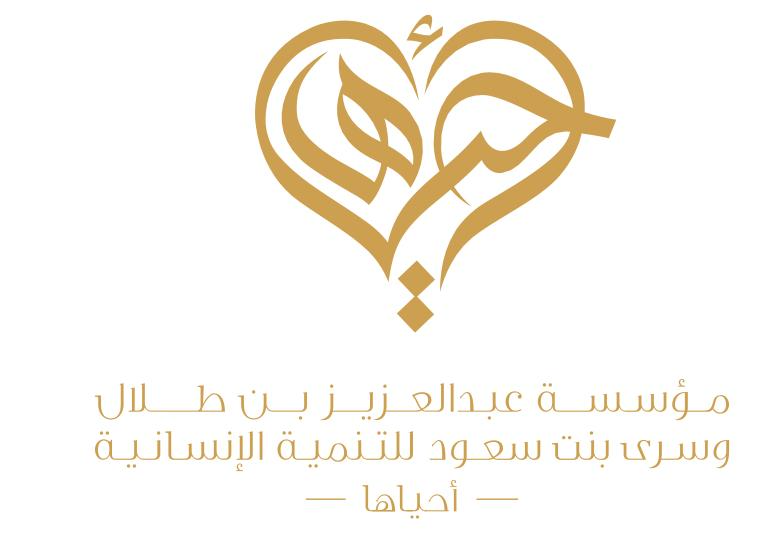
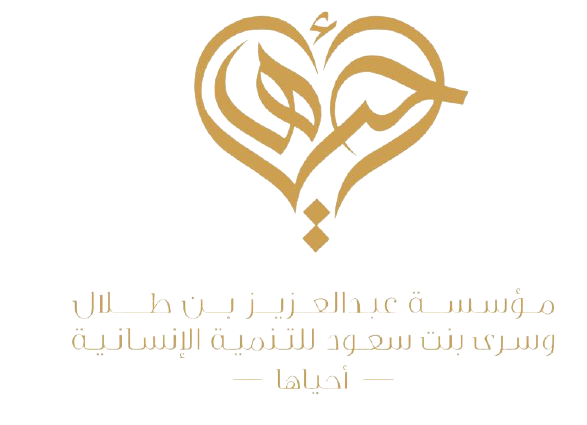
home

diff --git a/main/templates/main/home.html b/main/templates/main/home.html
@@ -4,39 +4,34 @@
 
 
 {% block content %}
-    <div class="ftco-blocks-cover-1">
+    <div class="ftco-blocks-cover-1" style="margin-top: -113px;">
         <div id="carouselExampleIndicators" class="carousel slide my-carousel my-carousel" data-ride="carousel">
             <ol class="carousel-indicators">
                 <li data-target="#carouselExampleIndicators" data-slide-to="0" class="circle black-dot active"></li>
                 <li data-target="#carouselExampleIndicators" data-slide-to="1" class="circle blue-dot"></li>
                 <li data-target="#carouselExampleIndicators" data-slide-to="2" class="circle green-dot"></li>
             </ol>
-            <div class="carousel-inner" role="listbox">
+            <div class="carousel-inner" role="listbox" >
                 <div class="carousel-item active" style="background-image: url('../../../static/images/login.png')">
-                    <div class="carousel-caption d-none d-md-block text-lay-image" style="margin-top: 10px">
-                        <h2 class="body-font text-green" style="font-size: 50px; font-weight: bold;">منصة الخير </h2>
-                        <h5 class="body-font text-black" style="font-size: 23px; font-weight: bold;">صممت لتيسير الخير لفاعل الخير ليكون ضمن </h5>
-                        <p class="body-font text-black" style="font-size: 23px;  font-weight: bold;"> دائره تكافليه موثوقه
-                        <p class="body-font text-green" style="font-size: 23px; font-weight: bold;">,مستمره و ممتده</p>  </p>
+                    <div class="carousel-caption d-none d-md-block text-lay-image"  style="height: 380px; width: 100%;">
+                        <h2 class="body-font text-green" style="color: #2D6D93 !important; font-size: 50px; font-weight: bold;">منصة الخير </h2>
+                        <h5 class="body-font text-black" style="font-size: 23px; font-weight: bold;">صممت لتيسير الخير لفاعل الخير ليكون ضمن  دائره تكافليه موثوقه </h5>
+                        <p class="body-font text-green" style="font-size: 23px; font-weight: bold;">مستمره و ممتده</p>
                     </div>
                 </div>
             </div>
         </div>
     </div>
-        <div class="site-section ">
+        <div class="site-section " >
         <div class="container bg-home">
             <div class="row">
-                <div class="col-12 ">
-                 <div class="card">
-                     <div class="card-body">
+                <div class="col-12 bg-home">
                               <center><h3 class="body-font text-green" style="font-size: 32px; font-weight: bold;"> رسالة خير</h3></center>
                          <hr/>
                   <center>  <p class="body-font text-black " style="font-size: 20px;">السعى لتمكين و تفعيل التكافل الأجتماعى باستخدام التقنيات الحديثه
                         للربط بين الكيانات المقتدره من المؤسسات و الأفراد و المستفيدات من الجمعيات الخيريه الرسميه فى
                       المملكه العربيه السعوديه</p> </center>
 
-                     </div>
-                 </div>
                 </div>
             </div>
                                   <div class="row">
@@ -86,53 +81,41 @@
             <div class="row justify-content-center text-center mb-5 section-2-title">
                 <div class="col-md-6">
                     <span class="text-cursive h5 text-red body-font" style="font-size: 25px; font-weight: bold;">مساحه للإعلانات</span>
-                    <h3 class="text-white text-center body-font text-black">الأعلانات</h3>
+                    <h3 class="text-white text-center body-font text-black" style="font-size: 20px; font-weight: bold;" >الأعلانات</h3>
                 </div>
             </div>
 
-    <div class="row">
+    <div class="row" style="height: 380px; width: 100%; margin-top: -140px;">
         <div id="recipeCarousel" class="carousel slide w-100" data-ride="carousel">
             <div class="carousel-inner w-100" role="listbox">
                 <div class="carousel-item active">
                     <div class="col-md-4">
-                        <div class="card card-body">
                             <img class="img-fluid" src="{% static 'images/hands.png' %}">
-                        </div>
                     </div>
                 </div>
                 <div class="carousel-item">
                     <div class="col-md-4">
-                        <div class="card card-body">
                             <img class="img-fluid" src="{% static 'images/hands.png' %}">
-                        </div>
                     </div>
                 </div>
                 <div class="carousel-item">
                     <div class="col-md-4">
-                        <div class="card card-body">
                             <img class="img-fluid" src="{% static 'images/hands.png' %}">
-                        </div>
                     </div>
                 </div>
                 <div class="carousel-item">
                     <div class="col-md-4">
-                        <div class="card card-body">
                             <img class="img-fluid" src="{% static 'images/hands.png' %}">
-                        </div>
                     </div>
                 </div>
                 <div class="carousel-item">
                     <div class="col-md-4">
-                        <div class="card card-body">
                             <img class="img-fluid" src="{% static 'images/hands.png' %}">
-                        </div>
                     </div>
                 </div>
                 <div class="carousel-item">
                     <div class="col-md-4">
-                        <div class="card card-body">
                             <img class="img-fluid" src="{% static 'images/hands.png' %}">
-                        </div>
                     </div>
                 </div>
             </div>
@@ -187,8 +170,8 @@
       </div>
     </div>
 
-    <div class="site-section ">
-    <div class="container bg-home">
+    <div class="site-section " style="height: 10px; width: 100%; margin-top: -180px;">
+    <div class="container ">
          <div class="row mt-5 justify-content-center ">
 
 
@@ -232,43 +215,35 @@
 </center>
             <div class="row justify-content-center text-center mb-5 section-2-title">
                 <div class="col-md-6">
-                    <span class="text-cursive h5 text-red body-font" style="font-size: 25px; font-weight: bold;">شركاؤنا</span>
-                    <h3 class="text-white text-center body-font text-black">أهدافنا و طموحاتنا ان يصل الخير لمستحقيه</h3>
+                    <span class="text-cursive h5 text-red body-font" style="font-size: 25px; ;">شركاؤنا</span>
+                    <h3 class="text-white text-center body-font text-black" style="font-size: 20px">أهدافنا و طموحاتنا ان يصل الخير لمستحقيه</h3>
                 </div>
             </div>
 
 
             </div>
-    <div class="container text-center my-3" >
+    <div class="container text-center my-3" style="height: 380px; width: 100%;" >
     <div class="row mx-auto my-auto">
         <div id="e3lan" class="carousel slide w-100" data-ride="carousel">
             <div class="carousel-inner w-100" role="listbox">
                 <div class="carousel-item active">
                     <div class="col-md-4">
-                        <div class="card card-body">
-                            <img class="img-fluid" src="{% static 'images/share1.png' %}">
-                        </div>
+                            <img class="img-fluid" src="{% static 'images/share1.png' %}" width="300" height="250">
                     </div>
                 </div>
                 <div class="carousel-item">
                     <div class="col-md-4">
-                        <div class="card card-body">
-                            <img class="img-fluid" src="{% static 'images/share2.png' %}">
-                        </div>
+                            <img class="img-fluid" src="{% static 'images/share2.png' %}"  width="300" height="250" >
                     </div>
                 </div>
                 <div class="carousel-item">
                     <div class="col-md-4">
-                        <div class="card card-body">
-                            <img class="img-fluid" src="{% static 'images/share4.png' %}">
-                        </div>
+                            <img class="img-fluid" src="{% static 'images/share4.png' %}"  width="300" height="250">
                     </div>
                 </div>
                 <div class="carousel-item">
                     <div class="col-md-4">
-                        <div class="card card-body">
-                            <img class="img-fluid" src="{% static 'images/share3.png' %}">
-                        </div>
+                            <img class="img-fluid" src="{% static 'images/share3.png' %}"  width="150" height="100">
                     </div>
                 </div>
 

diff --git a/templates/footer.html b/templates/footer.html
@@ -39,7 +39,7 @@
                         <div class="form-group row">
                             <div class="col-md-12" id="btn add">
                           <center>      <button type="submit" id="btn_add"
-                                        class="btn btn-teal btn-custom-1 body-font"> إرسال
+                                        class="btn btn-teal btn-custom-1 body-font text-white"> إرسال
                                 </button></center>
                             </div>
                         </div>
@@ -51,12 +51,16 @@
             </div>
 
             <div class="col-lg-4 center">
-                <center>  <img src="{% static 'images/aida.jpeg' %}" width="100" height="35" alt="logo"/></center>
 
                <center><p class=" text-white body-font">نيسر الخير لأهل الخير </p></center>
                 <hr/>
                <center><p class=" text-white body-font">للتواصل عبر البريد الألكترونى </p></center>
-               <center><p class="text-white text-cursive">   info@kheer.com </p></center>
+               <center><p class="text-white text-cursive" style="font-size: 15px;">   info@kheer.com </p>
+                 <a style="display: inline-block;margin: 3px;" href="#"><span class="icon-facebook text-white"></span></a>
+                    <a style="display: inline-block; margin: 3px;" href="https://twitter.com/ksakhair?s=11"><span class="icon-twitter text-white"></span></a>
+                    <a style="display: inline-block; margin: 3px;" href="https://www.instagram.com/ksakhair/"> <i class="fa fa-instagram text-whit" aria-hidden="true"></i>
+</a>
+               </center>
                 <hr/>
                <center><p class="mb-5 text-white body-font">4092-12393 ص.ب    </p></center>
 
@@ -70,19 +74,17 @@
         </div>
         <hr/>
         <div class="row">
-            <div class="col-12 " >
-                <center>
-                        <img  src="{% static 'images/white-logo.png' %}" alt="logo" style="display: inline-block;"/>
-                    <a style="display: inline-block;" href="#"><span class="icon-facebook text-white"></span></a>
-                    <a style="display: inline-block;" href="https://twitter.com/ksakhair?s=11"><span class="icon-twitter text-white"></span></a>
-                    <a style="display: inline-block;" href="https://www.instagram.com/ksakhair/"> <i class="fa fa-instagram text-whit" aria-hidden="true"></i>
-</a>
-              <p style="display: inline-block;" class="body-font text-white"> طرق الدفع الألكترونى</p>
-                             <img style="display: inline-block;" width="50" height="50" src="{% static 'images/mada.svg' %}" alt="logo"/>
-                <i style="display: inline-block;" class="fa fa-paypal fa-lg text-white"  aria-hidden="true"></i>
-           <i style="display: inline-block;" class="fa fa-cc-mastercard fa-lg text-white" aria-hidden="true"></i>
-<i class="fa fa-cc-visa fa-lg text-white" aria-hidden="true" style="display: inline-block;"></i>
-           </center>
+            <div class="col-3">
+                <img  src="{% static 'images/white-logo.png' %}"  width="100" height="50"  alt="logo" style="margin:5px;"/>
+
+            </div>
+            <div class="col-7 " style="margin-right: 100px;">
+
+              <p style="display: inline-block; margin: 3px;" class="body-font text-white"> طرق الدفع الألكترونى</p>
+                             <img style="display: inline-block; margin: 5px;" width="50" height="50" src="{% static 'images/mada.svg' %}" alt="logo"/>
+                <i style=" display: inline-block; margin: 5px;" class="fa fa-paypal fa-lg text-white"  aria-hidden="true"></i>
+           <i style="display: inline-block; margin: 5px;;" class="fa fa-cc-mastercard fa-lg text-white" aria-hidden="true"></i>
+<i class="fa fa-cc-visa fa-lg text-white" aria-hidden="true" style="display: inline-block; margin: 5px;"></i>
             </div>
         </div>
     </div>

diff --git a/static/css/style.css b/static/css/style.css
@@ -215,9 +215,10 @@ html {
 
 body {
   line-height: 1.7;
-  color: #364d59 !important;
   font-weight: 300;
-  font-size: 1rem; }
+  font-size: 1rem;
+background-color: #f5f4f4 !important;
+}
 
 ::-moz-selection {
   background: #000;
@@ -1800,12 +1801,14 @@ opacity: 0.75;
     background-size: 100%;
 
 }
+
+
 .bg-home {
-  background-color: #FFFFFF;
+background-color: #f5f4f4 ;
   border-top: 2px double black;
 }
 .bg-aida {
-  background-color: #CFD2D2;
+background-color: #f5f4f4
 }
 .bg-ebtsam {
   background-repeat: no-repeat;
@@ -1976,7 +1979,6 @@ opacity: 0.75;
 
 
 .carousel-item {
-    height: 100vh;
     background: no-repeat center center scroll;
     -webkit-background-size: cover;
     -moz-background-size: cover;
@@ -1994,7 +1996,8 @@ opacity: 0.75;
 
 
 .text-lay-image {
-         top: -40px !important;
+     right: 100px;
+    top: -40px !important;
     margin-top: 110px !important;
     width: 388px !important;
     text-align: right !important;
